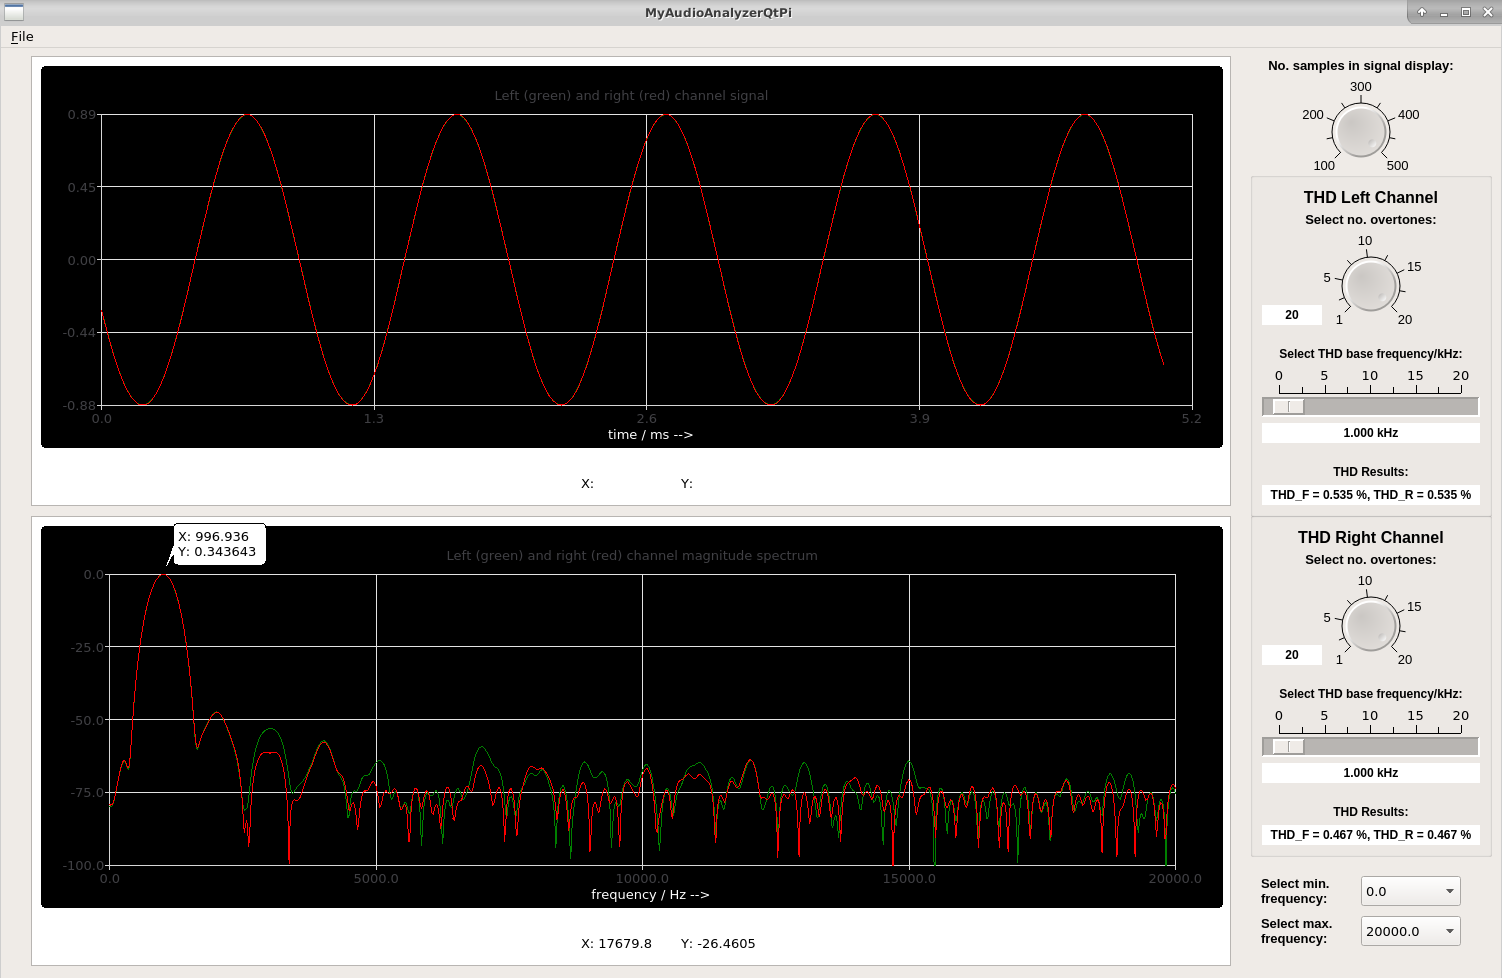
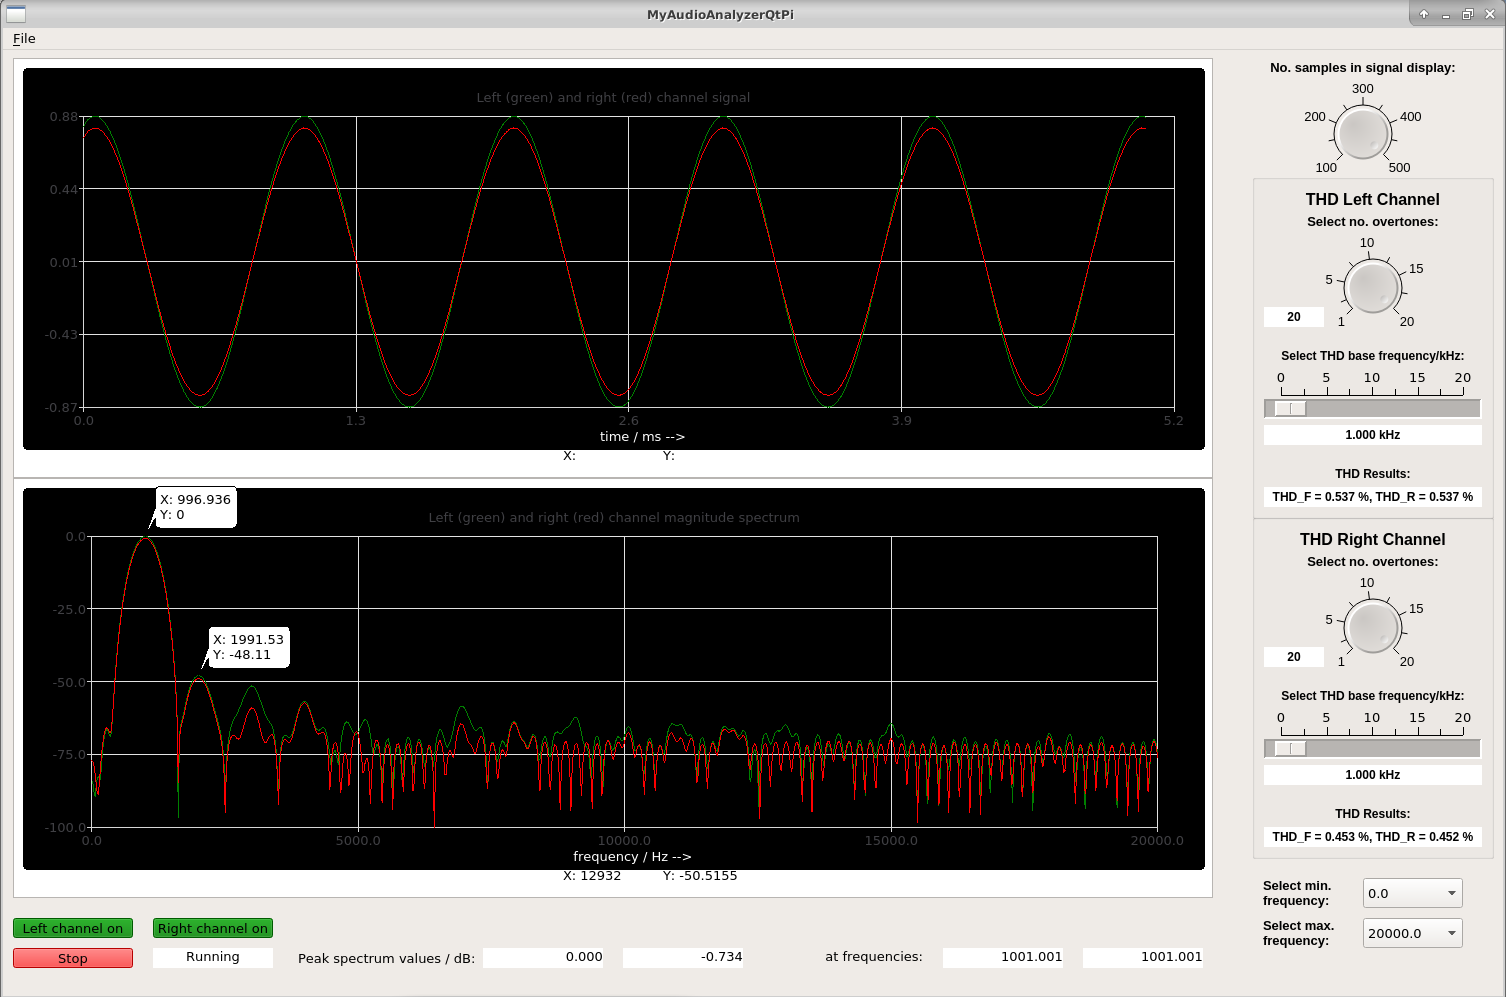
added handling of channel activation buttons

diff --git a/SimMainWindow.cpp b/SimMainWindow.cpp
@@ -29,7 +29,7 @@ SimMainWindow::SimMainWindow(QMainWindow *parent)
   connect(m_timer, &QTimer::timeout, this, QOverload<>::of(&SimMainWindow::step));
   const uint16_t delayTime_ms = 10;
   m_timer->start(delayTime_ms);
-  m_applicationRunning = true;
+
   std::cout << "Spectrum analyzer started" << std::endl;
 }
 
@@ -81,7 +81,7 @@ void SimMainWindow::getSignalSpectrumData()
 
 void SimMainWindow::save()
 {
-   std::cout << "save() called" << std::endl;
+   // std::cout << "save() called" << std::endl;
    getSignalSpectrumData();
    m_storeSignalSpectrumData = new StoreSignalSpectrumData(m_t, m_leftSignal, m_rightSignal,
                                                            m_f, m_leftSpectrum, m_rightSpectrum);
@@ -91,7 +91,7 @@ void SimMainWindow::save()
 
 void SimMainWindow::saveAs()
 {
-    std::cout << "saveAs() called" << std::endl;
+    // std::cout << "saveAs() called" << std::endl;
     // missing: get file name
     getSignalSpectrumData();
     m_storeSignalSpectrumData = new StoreSignalSpectrumData(m_t, m_leftSignal, m_rightSignal,
@@ -111,6 +111,13 @@ void SimMainWindow::setParameters()
   m_peakSpectrumValueRight = -180;
   m_peakSpectrumFrequencyLeft = 0.0;
   m_peakSpectrumFrequencyRight = 0.0;
+
+  // set running flag
+  m_applicationRunning = true;
+
+  // set channel activity flags
+  m_leftChannelActive = true;
+  m_rightChannelActive = true;
 }
 
 void SimMainWindow::readParametersFromFile()
@@ -146,6 +153,15 @@ void SimMainWindow::setupWidgetsAndLayouts()
     // setup the signal plot view
     // std::cout << "setup SignalPlotView" << std::endl;
     m_SignalPlotView = new SignalPlotView(m_sampleFrequency, this);
+    if (m_leftChannelActive)
+      m_SignalPlotView->activateLeftChannel();
+    else
+      m_SignalPlotView->deactivateLeftChannel();
+    if (m_rightChannelActive)
+      m_SignalPlotView->activateRightChannel();
+    else
+      m_SignalPlotView->deactivateRightChannel();
+
     QString signalAxisLabelStr("time / ms -->");
     m_signalAxisLabel = new QLabel(signalAxisLabelStr, this);
     m_signalAxisLabel->setAlignment( Qt::AlignTop | Qt::AlignHCenter );
@@ -154,6 +170,15 @@ void SimMainWindow::setupWidgetsAndLayouts()
     // setup the spectrum plot view
     // std::cout << "setup SpectrumPlotView" << std::endl;
     m_SpectrumPlotView = new SpectrumPlotView(m_sampleFrequency, m_spectrumParameter, this);
+    if (m_leftChannelActive)
+      m_SpectrumPlotView->activateLeftChannel();
+    else
+      m_SpectrumPlotView->deactivateLeftChannel();
+    if (m_rightChannelActive)
+      m_SpectrumPlotView->activateRightChannel();
+    else
+      m_SpectrumPlotView->deactivateRightChannel();
+
     QString frequencyAxisLabelStr("frequency / Hz -->");
     m_frequencyAxisLabel = new QLabel(frequencyAxisLabelStr, this);
     m_frequencyAxisLabel->setAlignment( Qt::AlignTop | Qt::AlignHCenter );
@@ -327,11 +352,15 @@ void SimMainWindow::setupWidgetsAndLayouts()
     // connect Start/Stop push button
     connect(m_processingOnOff, SIGNAL(clicked()), this, SLOT(toggleOnOff()));
 
+    // connect left / right channel activation buttons
+    connect(m_leftChannelActivationButton, SIGNAL(clicked()), this, SLOT(toggleLeftChannel()));
+    connect(m_rightChannelActivationButton, SIGNAL(clicked()), this, SLOT(toggleRightChannel()));
+
 }
 
 void SimMainWindow::toggleOnOff()
 {
-    std::cout << "OnOff clicked" << std::endl;
+    // std::cout << "OnOff clicked" << std::endl;
     //
     if (m_applicationRunning)
     {
@@ -349,6 +378,46 @@ void SimMainWindow::toggleOnOff()
         m_processingStatus->setText("Running");
         const uint16_t delayTime_ms = 10;
         m_timer->start(delayTime_ms);
+    }
+}
+
+void SimMainWindow::toggleLeftChannel()
+{
+  if (m_leftChannelActive)
+  {
+    m_leftChannelActive = false;
+    m_leftChannelActivationButton->setStyleSheet("QPushButton { background-color : red; }");
+    m_leftChannelActivationButton->setText("Left channel off");
+    m_SignalPlotView->deactivateLeftChannel();
+    m_SpectrumPlotView->deactivateLeftChannel();
+  }
+  else
+  {
+    m_leftChannelActive = true;
+    m_leftChannelActivationButton->setStyleSheet("QPushButton { background-color : green; }");
+    m_leftChannelActivationButton->setText("Left channel on");
+    m_SignalPlotView->activateLeftChannel();
+    m_SpectrumPlotView->activateLeftChannel();
+  }
+}
+
+void SimMainWindow::toggleRightChannel()
+{
+    if (m_rightChannelActive)
+    {
+      m_rightChannelActive = false;
+      m_rightChannelActivationButton->setStyleSheet("QPushButton { background-color : red; }");
+      m_rightChannelActivationButton->setText("Right channel off");
+      m_SignalPlotView->deactivateRightChannel();
+      m_SpectrumPlotView->deactivateRightChannel();
+    }
+    else
+    {
+      m_rightChannelActive = true;
+      m_rightChannelActivationButton->setStyleSheet("QPushButton { background-color : green; }");
+      m_rightChannelActivationButton->setText("Right channel on");
+      m_SignalPlotView->activateRightChannel();
+      m_SpectrumPlotView->activateRightChannel();
     }
 }
 

diff --git a/SpectrumPlotView.cpp b/SpectrumPlotView.cpp
@@ -61,6 +61,27 @@ SpectrumPlotView::SpectrumPlotView(double initSampleFrequency, SpectrumParameter
   spectrumCalculatorRight = new SpectrumCalculator(m_sampleFrequency, m_spectrumParameter);
 }
 
+
+void SpectrumPlotView::activateLeftChannel()
+{
+    m_leftChannelActive = true;
+}
+
+void SpectrumPlotView::activateRightChannel()
+{
+  m_rightChannelActive = true;
+}
+
+void SpectrumPlotView::deactivateLeftChannel()
+{
+  m_leftChannelActive = false;
+}
+
+void SpectrumPlotView::deactivateRightChannel()
+{
+  m_rightChannelActive = false;
+}
+
 void SpectrumPlotView::getSignals(VectorXd x1,VectorXd y1,
                                   VectorXd x2,VectorXd y2)
 {
@@ -91,8 +112,8 @@ void SpectrumPlotView::updateSpectra()
   VectorXd magnitudeSpectrumRight = spectrumCalculatorRight->returnMagnitudeSpectrum();
 
   VectorXd frequencyRange = m_spectrumParameter->getFrequencyRange();
-  plotSpectrumChannelLeftRight->updateData(frequencyRange, magnitudeSpectrumLeft,
-                                           frequencyRange, magnitudeSpectrumRight);
+  plotSpectrumChannelLeftRight->updateData(m_leftChannelActive, frequencyRange, magnitudeSpectrumLeft,
+                                           m_rightChannelActive, frequencyRange, magnitudeSpectrumRight);
   QChart* pChart = plotSpectrumChannelLeftRight->getChart();
   pChart->axisY()->setRange(-100.0,0.0);
   pChart->axisX()->setRange(m_spectrumParameter->getMinFrequency(),
@@ -100,13 +121,17 @@ void SpectrumPlotView::updateSpectra()
 
   // with new series added to the chart, it is necessary to update the signal connections for the hovering mouse
   // connect the hovering over the first data series of the spectrum chart with the tooltip display
-  connect(plotSpectrumChannelLeftRight->returnSeries1(), &QLineSeries::hovered, this, &SpectrumPlotView::tooltip);
+  if (m_leftChannelActive)
+    connect(plotSpectrumChannelLeftRight->returnSeries1(), &QLineSeries::hovered, this, &SpectrumPlotView::tooltip);
   // connect the hovering over the second data series of the spectrum chart with the tooltip display
-  connect(plotSpectrumChannelLeftRight->returnSeries2(), &QLineSeries::hovered, this, &SpectrumPlotView::tooltip);
+  if (m_rightChannelActive)
+    connect(plotSpectrumChannelLeftRight->returnSeries2(), &QLineSeries::hovered, this, &SpectrumPlotView::tooltip);
   // connect the clicking on the first data series of the spectrum chart with the routine to keep the callout
-  connect(plotSpectrumChannelLeftRight->returnSeries1(), &QLineSeries::clicked, this, &SpectrumPlotView::keepCallout);
+  if (m_leftChannelActive)
+    connect(plotSpectrumChannelLeftRight->returnSeries1(), &QLineSeries::clicked, this, &SpectrumPlotView::keepCallout);
   // connect the clicking on the second data series of the spectrum chart with the routine to keep the callout
-  connect(plotSpectrumChannelLeftRight->returnSeries2(), &QLineSeries::clicked, this, &SpectrumPlotView::keepCallout);
+  if (m_rightChannelActive)
+    connect(plotSpectrumChannelLeftRight->returnSeries2(), &QLineSeries::clicked, this, &SpectrumPlotView::keepCallout);
 }
 
 void SpectrumPlotView::updateMinFrequency(double newMinFrequency)

diff --git a/plot2D.cpp b/plot2D.cpp
@@ -112,22 +112,31 @@ void plot2D::addData(plotData &data, QString color)
   // m_chart->axes(Qt::Vertical).first()->setRange(data.m_minValY, data.m_maxValY);
 }
 
-void plot2D::updateData(const VectorXd x1, const VectorXd y1,
-                        const VectorXd x2, const VectorXd y2)
+void plot2D::updateData(bool active1, const VectorXd x1, const VectorXd y1,
+                        bool active2, const VectorXd x2, const VectorXd y2)
 {
   // std::cout << "updateData: size of vector x1 = " << x1.size() << std::endl;
   // std::cout << "updateData: size of vector y1 = " << y1.size() << std::endl;
   m_chart->removeAllSeries();
-  plotData1 = new plotData(x1,y1);
-  addData(*plotData1,"green");
-  m_chart->createDefaultAxes();
-  plotData2 = new plotData(x2,y2);
-  addData(*plotData2,"red");
-  m_chart->createDefaultAxes();
-  m_chart->setAcceptHoverEvents(true);
-  setChart(m_chart);
-  setRenderHint(QPainter::Antialiasing);
-  m_chart->show();
+  if (active1)
+  {
+    plotData1 = new plotData(x1,y1);
+    addData(*plotData1,"green");
+    m_chart->createDefaultAxes();
+  }
+  if (active2)
+  {
+    plotData2 = new plotData(x2,y2);
+    addData(*plotData2,"red");
+    m_chart->createDefaultAxes();
+  }
+  if (active1 | active2)
+  {
+    m_chart->setAcceptHoverEvents(true);
+    setChart(m_chart);
+    setRenderHint(QPainter::Antialiasing);
+    m_chart->show();
+  }
 }
 
 QLineSeries* plot2D::returnSeries1()
@@ -155,4 +164,3 @@ QChart *plot2D::createLineChart(plotData &data, QString color)
   axisY->setLabelFormat("%.1f  ");
   return chart;
 }
-

diff --git a/SignalPlotView.cpp b/SignalPlotView.cpp
@@ -64,6 +64,26 @@ SignalPlotView::SignalPlotView(double initSampleFrequency, QWidget *parent)
   // std::cout << "SignalPlotView created" << std::endl;
 }
 
+void SignalPlotView::activateLeftChannel()
+{
+    m_leftChannelActive = true;
+}
+
+void SignalPlotView::activateRightChannel()
+{
+  m_rightChannelActive = true;
+}
+
+void SignalPlotView::deactivateLeftChannel()
+{
+  m_leftChannelActive = false;
+}
+
+void SignalPlotView::deactivateRightChannel()
+{
+  m_rightChannelActive = false;
+}
+
 void SignalPlotView::updatePA()
 {
   // std::cout << "PA handler before start" << std::endl;
@@ -85,7 +105,8 @@ void SignalPlotView::updateSignals()
   signalTimeRight = signalTimeLeft;
   signalLeft = paHandler->returnSignalLeft();              // get the data of the left channel from the Portaudio handler
   signalRight = paHandler->returnSignalRight();            // get the data of the right channel from the Portaudio handler
-  plotSignalChannelLeftRight->updateData(signalTimeLeft,signalLeft,signalTimeRight,signalRight);
+  plotSignalChannelLeftRight->updateData(m_leftChannelActive,signalTimeLeft,signalLeft,
+                                         m_rightChannelActive,signalTimeRight,signalRight);
   QChart* pChart = plotSignalChannelLeftRight->getChart();
   pChart->axisX()->setRange(0.0,m_noSamplesToPlot*m_samplePeriod*1000.0);
 

diff --git a/SpectrumPlotView.h b/SpectrumPlotView.h
@@ -47,6 +47,10 @@ public:
   VectorXd returnMagnitudeSpectrumRight();
   void getMaxMagnitudeSpectrumLeft(double& maximumMagnitudeValue, double& maxFrequencyValue);
   void getMaxMagnitudeSpectrumRight(double& maximumMagnitudeValue, double& maxFrequencyValue);
+  void activateLeftChannel();
+  void activateRightChannel();
+  void deactivateLeftChannel();
+  void deactivateRightChannel();
 
 protected:
   void resizeEvent(QResizeEvent *event);
@@ -77,7 +81,13 @@ private:
   double m_maxMagnitudeLeft;
   double m_maxFrequencyValueLeft;
   double m_maxMagnitudeRight;
-  double m_maxFrequencyValueRight;};
-}
+  double m_maxFrequencyValueRight;
+
+  // channel activity flags
+  bool m_leftChannelActive;
+  bool m_rightChannelActive;
+};
+
+} // namespace MR_SIM
 
 #endif // QCPLOTWIDGETS_H

diff --git a/SimMainWindow.h b/SimMainWindow.h
@@ -52,6 +52,8 @@ private Q_SLOTS:
   void minFrequencyDialChanged(int newIndex);
   void maxFrequencyDialChanged(int newIndex);
   void toggleOnOff();
+  void toggleLeftChannel();
+  void toggleRightChannel();
 
 private:
   QTimer *m_timer;
@@ -98,6 +100,10 @@ private:
   double m_samplePeriod;
   double m_sampleFrequency;
   bool m_applicationRunning;
+
+  // channel activity flags
+  bool m_leftChannelActive;
+  bool m_rightChannelActive;
 
   // parameters to define the frequency range and resolution
   const uint16_t initNoSpectrumSamples = 1000;

diff --git a/SignalPlotView.h b/SignalPlotView.h
@@ -41,6 +41,10 @@ public:
   VectorXd returnTimeRightSignal();
   VectorXd returnLeftSignal();
   VectorXd returnRightSignal();
+  void activateLeftChannel();
+  void activateRightChannel();
+  void deactivateLeftChannel();
+  void deactivateRightChannel();
 
 protected:
   void resizeEvent(QResizeEvent *event);
@@ -66,6 +70,10 @@ private:
   QGraphicsSimpleTextItem *m_coordY;
   Callout *m_tooltip;
   QList<Callout *> m_callouts;
+
+  // channel activity flags
+  bool m_leftChannelActive;
+  bool m_rightChannelActive;
 
 };
 

diff --git a/plot2D.h b/plot2D.h
@@ -53,8 +53,8 @@ public:
   plot2D(const VectorXd x1, const VectorXd y1);
   plot2D(const VectorXd x1, const VectorXd y1,
          const VectorXd x2, const VectorXd y2);
-  void updateData(const VectorXd x1, const VectorXd y1,
-                  const VectorXd x2, const VectorXd y2);
+  void updateData(bool active1, const VectorXd x1, const VectorXd y1,
+                  bool active2, const VectorXd x2, const VectorXd y2);
   void setTitle(QString str);
   QLineSeries* returnSeries1();
   QLineSeries* returnSeries2();
